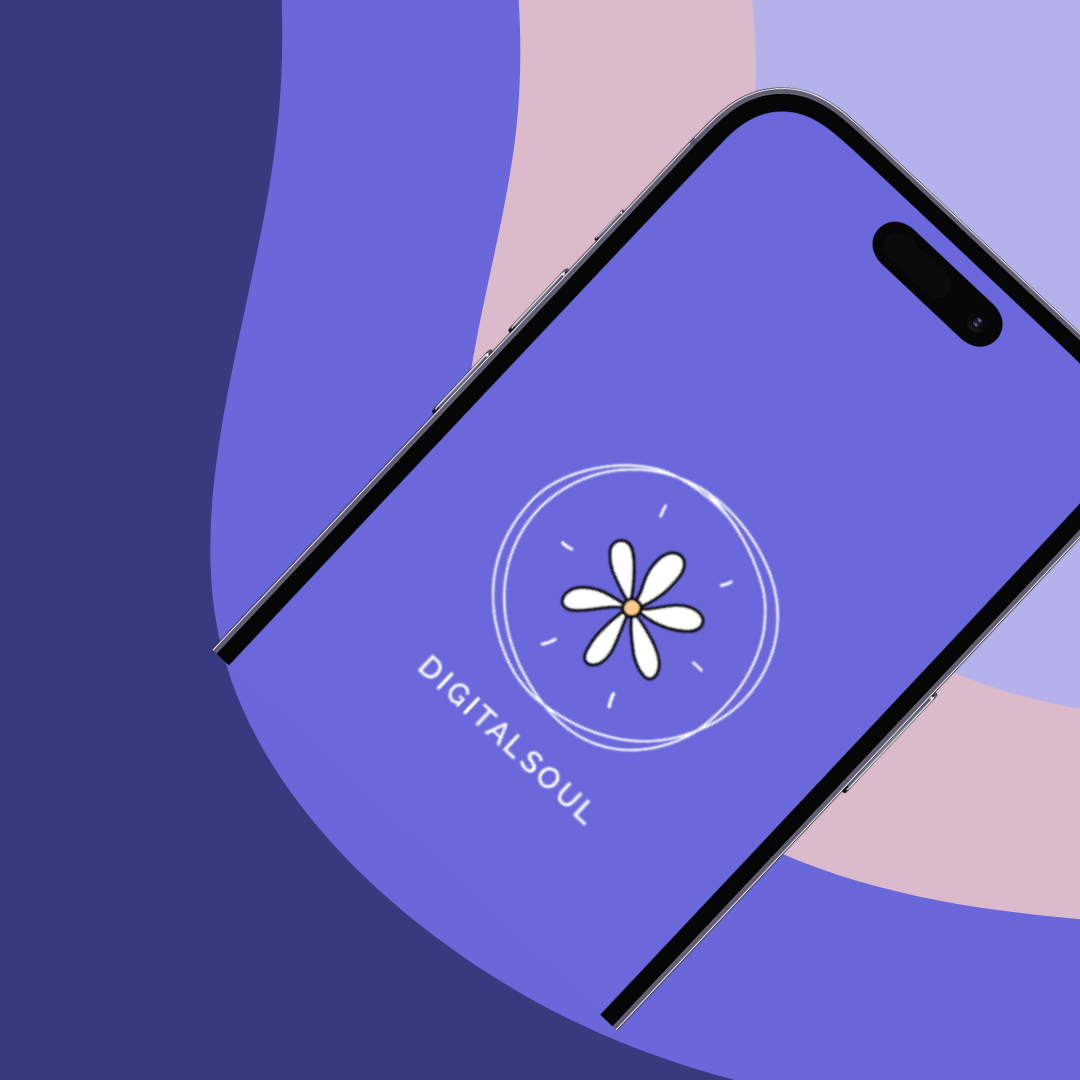
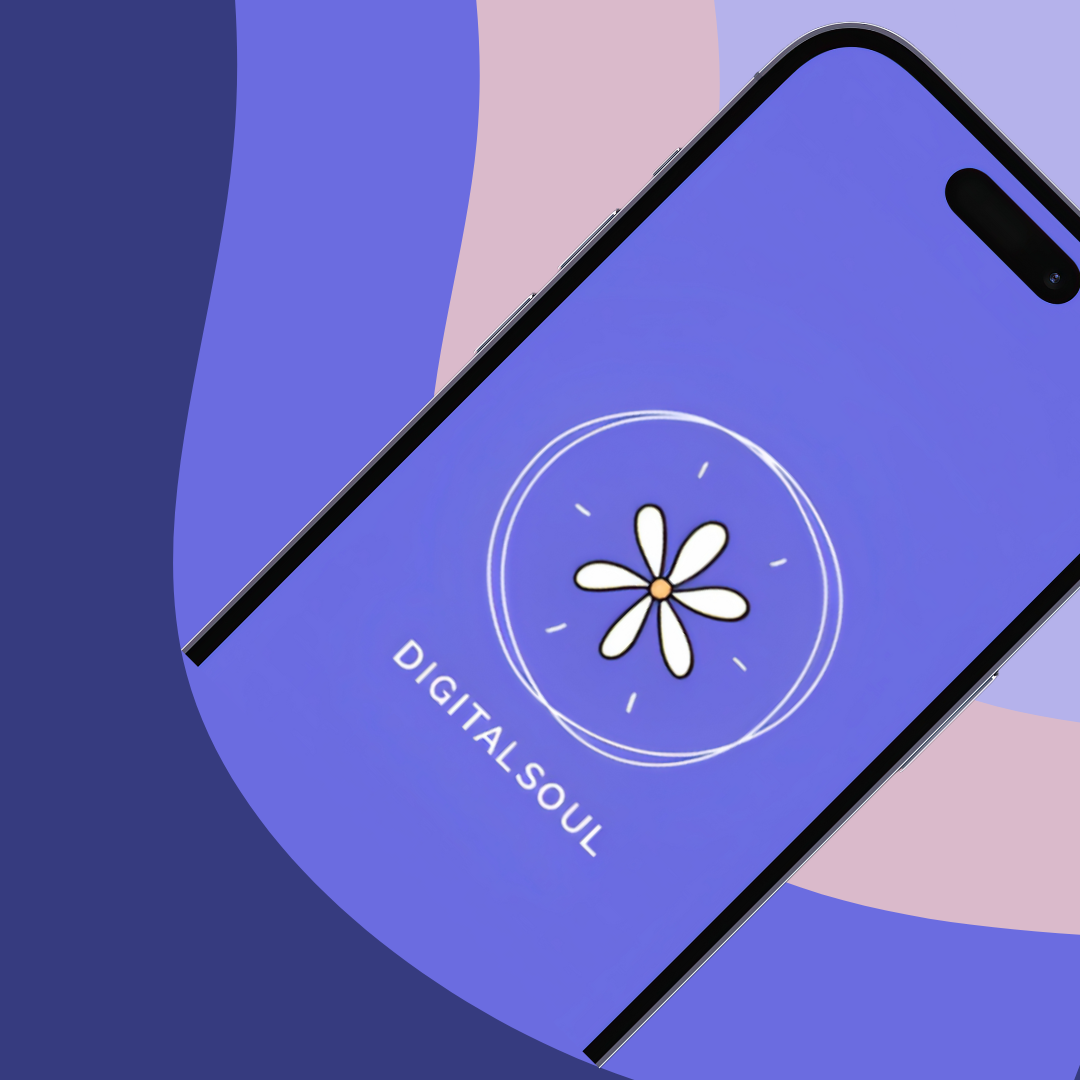
Home Page Bg

diff --git a/assets/css/templatemo-lava.css b/assets/css/templatemo-lava.css
@@ -670,7 +670,7 @@ welcome
   width: 100%;
   height: 100vh;
   min-height: 793px;
-  background-image: url(../images/welcome-bg5.png) ;
+  background-image: url(../images/welcome-bg_final.png) ;
   background-size: contain;
   background-color: #363b7f;
     /* Shift the background image by 100px to the right */
